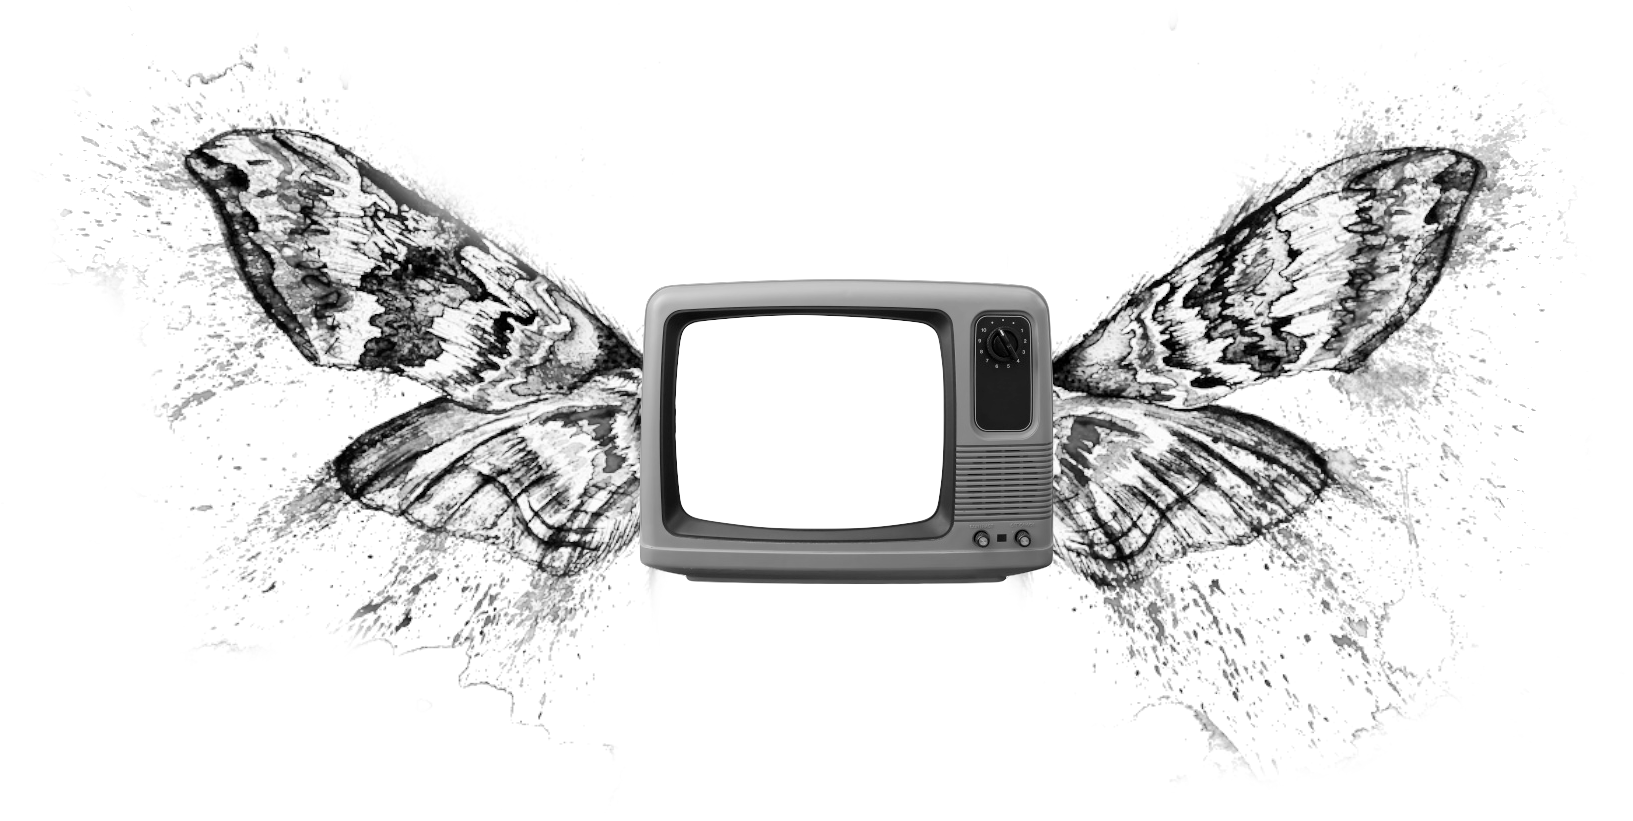
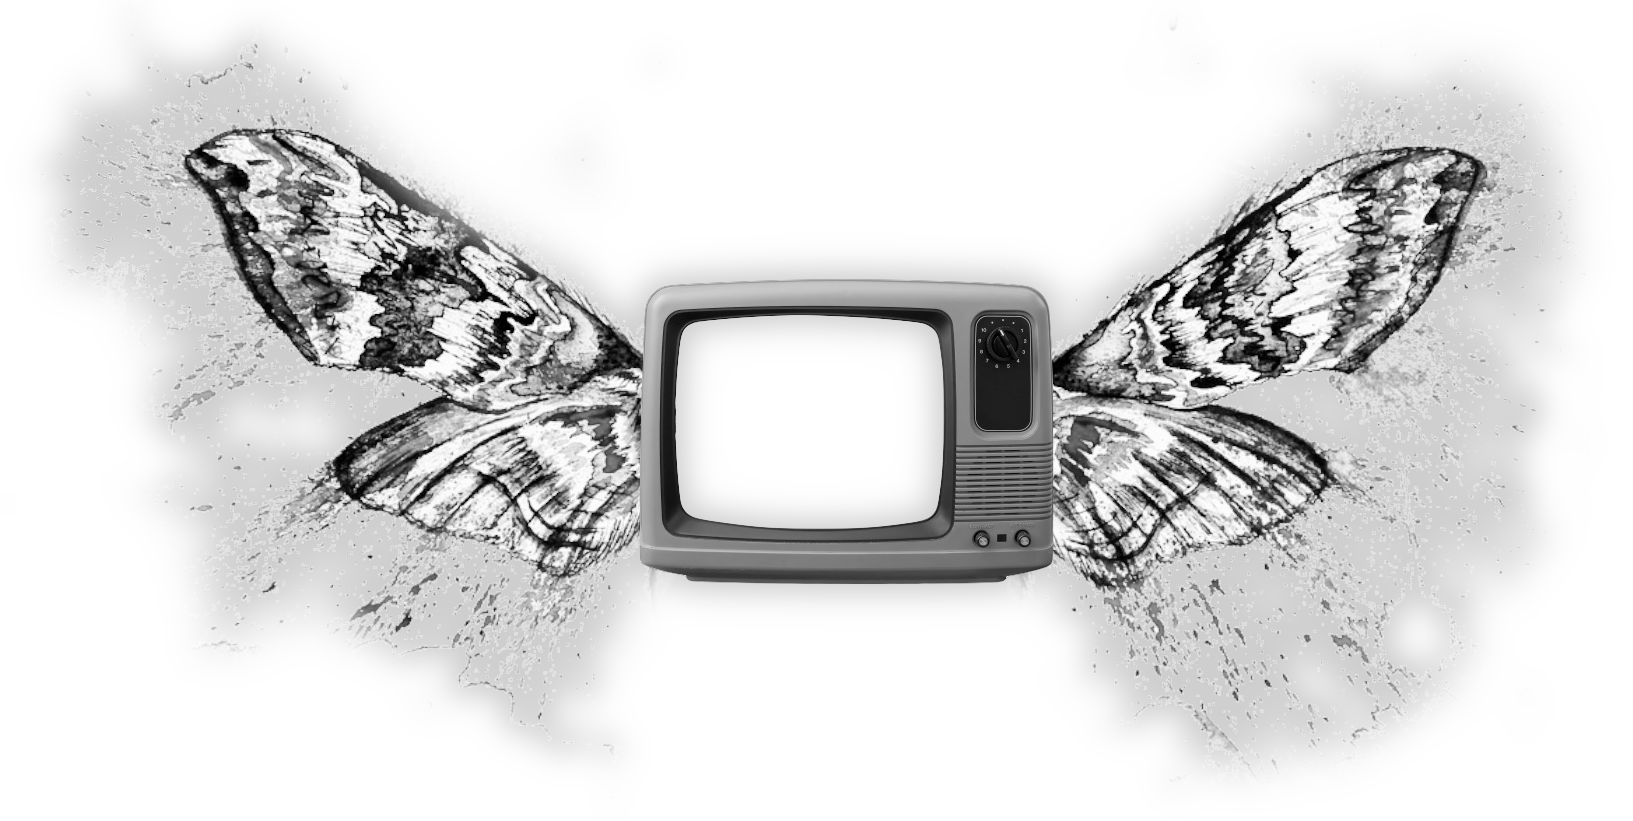
Flyover

diff --git a/src/components/Screens/index.tsx b/src/components/Screens/index.tsx
@@ -1,10 +1,11 @@
+import { useState } from 'react';
 import { useStyles } from './styles';
 import ReactPlayer from 'react-player/youtube';
 import { tv, drtv } from '../../assets';
-
+import clsx from 'clsx';
 export const Screens = () => {
   const classes = useStyles();
-
+  const [powerOn, setPowerOn] = useState<boolean>(false);
   return (
     <div
       style={{
@@ -23,9 +24,32 @@ export const Screens = () => {
           backgroundSize: 'contain',
           backgroundRepeat: 'no-repeat',
           position: 'absolute',
-          zIndex: 1,
+          zIndex: 2,
+        }}
+        onClick={() => setPowerOn(powerOn ? false : true)}
+      ></div>
+      <div
+        style={{
+          background: `url(${drtv})`,
+          width: '80%',
+          height: '80%',
+          backgroundSize: 'contain',
+          backgroundRepeat: 'no-repeat',
+          position: 'absolute',
+          zIndex: 0,
+          filter: 'brightness(0%) blur(10px)',
+          opacity: 0.5,
+          marginTop: '14%',
+          marginLeft: '4%',
         }}
       ></div>
+      <div
+        className={clsx({
+          [classes.blankScreen]: true,
+          [classes.blankScreenOff]: powerOn,
+        })}
+      ></div>
+
       <ReactPlayer
         url="https://www.youtube.com/watch?v=yS_8b7uq8hU"
         controls={false}
@@ -34,7 +58,13 @@ export const Screens = () => {
         playing={true}
         width="30%"
         height="30%"
-        style={{ position: 'absolute', top: '9vw', left: '20vw' }}
+        style={{
+          position: 'absolute',
+          top: '9vw',
+          left: '20vw',
+
+          filter: 'grayscale(100%) ',
+        }}
       />
     </div>
   );

diff --git a/src/App.tsx b/src/App.tsx
@@ -4,9 +4,7 @@ import { theme } from './theme';
 import { useStyles } from './styles';
 import { menuCards } from './data/menuCards';
 import { cvCards } from './data/cvCards';
-import { Screens } from './components/Screens';
-import { Screen2 } from './components/Screens/Screen2';
-import { Screen3 } from './components/Screens/Screen3';
+
 //Helpers
 import { speechObject, skillSpeech } from './helpers/speeches';
 //Components
@@ -17,6 +15,7 @@ import Logo from './components/Logo';
 import Availability from './components/Availability';
 import SpeechBubble from './components/SpeechBubble';
 import { BusinessCards } from './components/BusinessCards';
+import { Flyover } from './components/Flyover';
 import { ThemeContext } from './context/ctxSpeech';
 import { SkillCards } from './components/SkillCards';
 import { MenuCardsOne } from './components/MenuCardsOne';
@@ -187,24 +186,7 @@ function App() {
               />
             </div>
           </Parallax>
-          <div
-            style={{
-              width: '100vw',
-              height: '100vh',
-              zIndex: 12,
-              position: 'relative',
-            }}
-          >
-            <Parallax speed={70}>
-              <Screen3 />
-            </Parallax>
-            <Parallax speed={50}>
-              <Screen2 />
-            </Parallax>
-            <Parallax speed={140}>
-              <Screens />
-            </Parallax>
-          </div>
+          <Flyover powerOn={powerOn} />
           {/*
           {loadGrid && powerOn && (
             <MenuCardsOne toggleTheme={toggleTheme} powerOn={loadGrid} />

diff --git a/src/components/Flyover/index.tsx b/src/components/Flyover/index.tsx
@@ -1,0 +1,41 @@
+import { useState, useEffect } from 'react';
+import { Screens } from '../Screens';
+import { Screen2 } from '../Screens/Screen2';
+import { Screen3 } from '../Screens/Screen3';
+import { Parallax } from 'react-scroll-parallax';
+
+export const Flyover = (props: { powerOn: boolean }) => {
+  const { powerOn } = props;
+  const [hasLoaded, setHasLoaded] = useState<boolean>(false);
+
+  useEffect(() => {
+    if (powerOn && !hasLoaded) {
+      setHasLoaded(true);
+    }
+  }, [powerOn, hasLoaded]);
+
+  if (!powerOn && !hasLoaded) {
+    return null;
+  }
+  return (
+    <div
+      style={{
+        width: '100vw',
+        height: powerOn ? '100vh' : '0vh',
+        overflow: powerOn ? 'visible' : 'hidden',
+        zIndex: 12,
+        position: 'relative',
+      }}
+    >
+      <Parallax speed={70}>
+        <Screen3 />
+      </Parallax>
+      <Parallax speed={50}>
+        <Screen2 />
+      </Parallax>
+      <Parallax speed={140}>
+        <Screens />
+      </Parallax>
+    </div>
+  );
+};

diff --git a/src/components/Screens/styles.js b/src/components/Screens/styles.js
@@ -1,3 +1,16 @@
 import { makeStyles } from '@mui/styles';
 
-export const useStyles = makeStyles(() => ({}));
+export const useStyles = makeStyles(() => ({
+  blankScreen: {
+    transition: 'all 700ms',
+    width: '30%',
+    height: '30%',
+    background: '#000',
+    position: 'absolute',
+    top: '9vw',
+    left: '20vw',
+    zIndex: 1,
+    opacity: 0,
+  },
+  blankScreenOff: { opacity: 1 },
+}));
